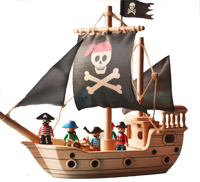
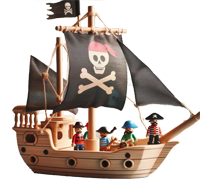
Forced initial ship orientation

diff --git a/src/pages/gasp-map/GaspMap.tsx b/src/pages/gasp-map/GaspMap.tsx
@@ -45,17 +45,17 @@ function GaspMap() {
           end: '+=' + scrollEnd,
           scrub: 0.3,
           scroller: mapContainerRef.current,
-          onUpdate: scrollTrigger => {
+          onUpdate: contextSafe!(scrollTrigger => {
             const rotation = gsap.getProperty('#ship', 'rotation') as number,
               flipY = Math.abs(rotation) > 110,
               flipX = scrollTrigger.direction === 1;
             if (flipY !== flippedY || flipX !== flippedX) {
-              gsap.to("#ship", {scaleY: flipY ? -1 : 1, scaleX: flipX ? -1 : 1, duration: 0.25});
+              gsap.to('#ship', {scaleY: flipY ? -1 : 1, scaleX: flipX ? 1 : -1, duration: 0.25});
               flippedY = flipY;
               flippedX = flipX;
             }
-          },
-        }
+          }),
+        },
       })
       .to('#ship', {
         motionPath: {
@@ -102,6 +102,8 @@ function GaspMap() {
     window.onresize = contextSafe!(() => {
       gsap.set('#container', {left: window.innerWidth / 2, top: window.innerHeight / 2});
     });
+
+    main.seek(0.001);
 
     // For debugging animation
     GSDevTools.create({animation: main})
